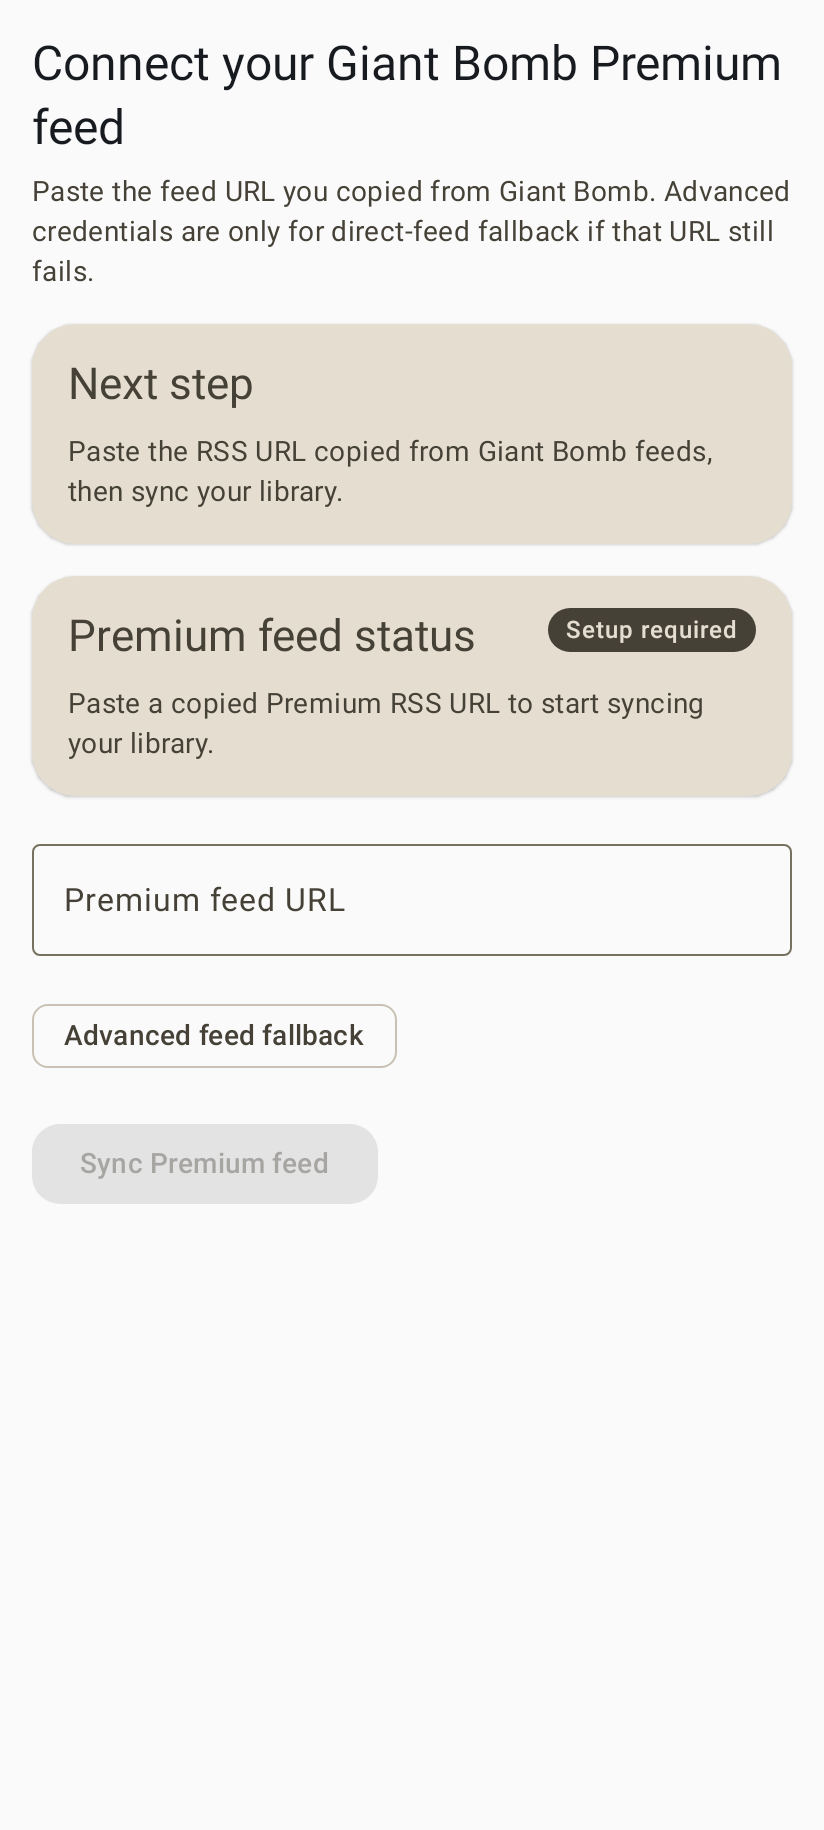
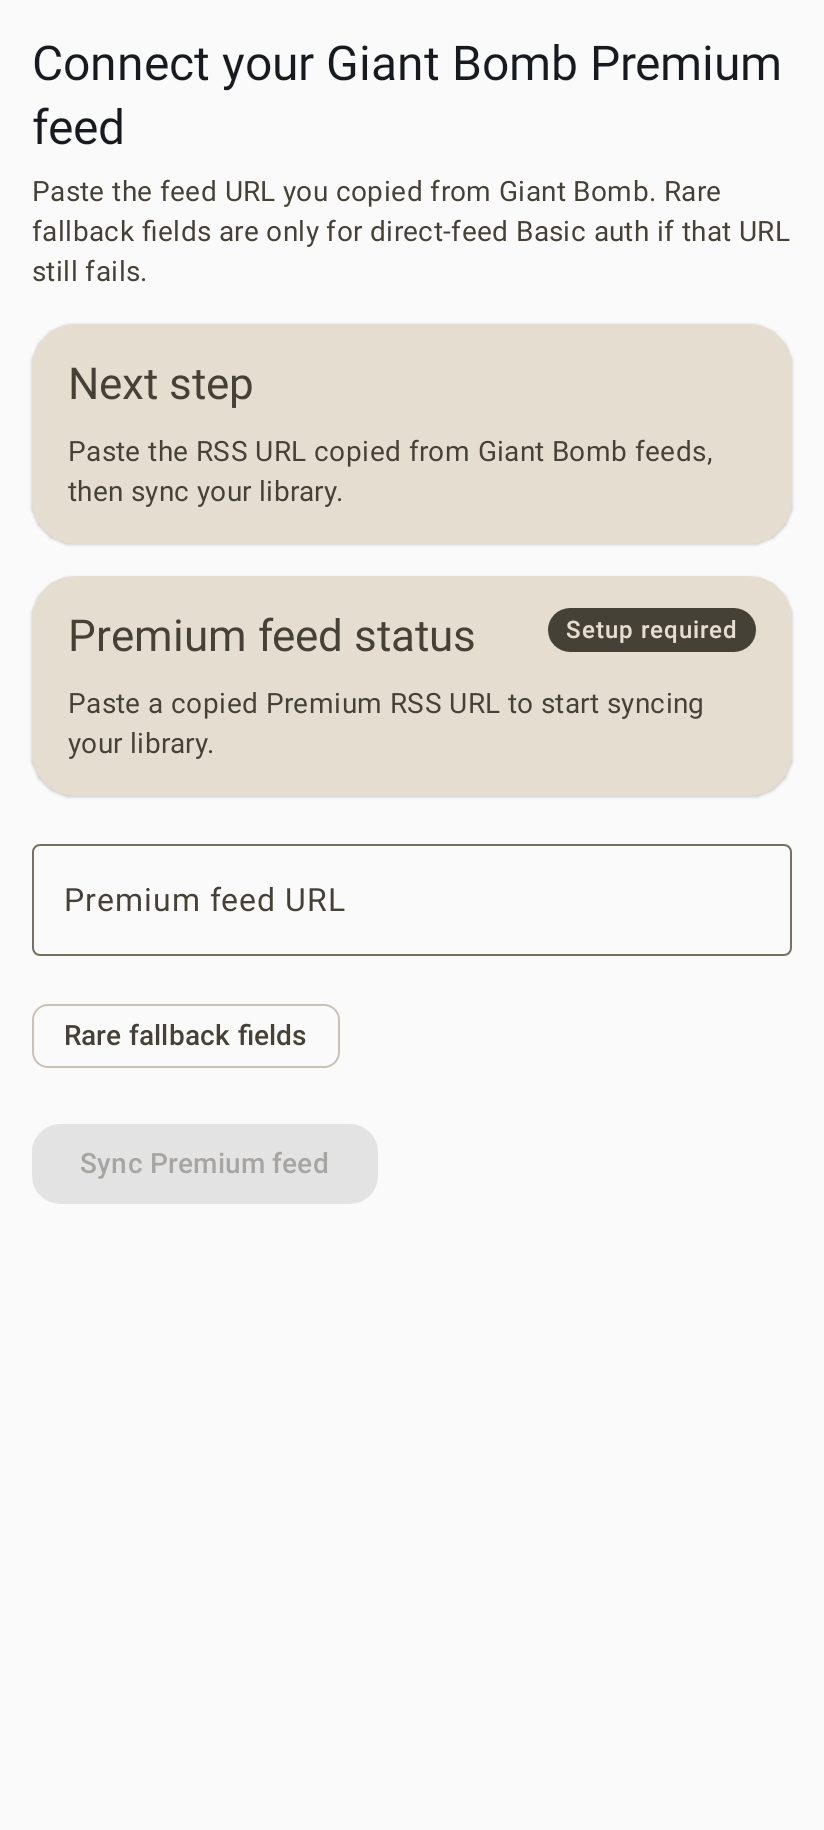
Demote fallback auth copy

diff --git a/feature/auth/src/main/java/com/looktube/feature/auth/AuthRoute.kt b/feature/auth/src/main/java/com/looktube/feature/auth/AuthRoute.kt
@@ -98,9 +98,9 @@ fun AuthRoute(
             append("\n\n")
             append(
                 if (feedConfiguration.rememberPassword) {
-                    "The optional password is saved securely on this device."
+                    "The optional fallback password is saved securely on this device."
                 } else {
-                    "The optional password is stored only for this app session."
+                    "The optional fallback password is stored only for this app session."
                 },
             )
         }
@@ -112,7 +112,7 @@ fun AuthRoute(
             feedConfiguration.rememberPassword ||
             feedConfiguration.password.isNotBlank()
         ) {
-            append("\n\nForget saved credentials removes the saved username and any remembered password but keeps the feed URL.")
+            append("\n\nForget saved fallback details removes the saved username and any remembered password but keeps the feed URL.")
         }
     }
     val canClearData = !isSigningIn && (
@@ -135,7 +135,7 @@ fun AuthRoute(
     ) {
         LookTubePageHeader(
             title = "Connect your Giant Bomb Premium feed",
-            subtitle = "Paste the feed URL you copied from Giant Bomb. Advanced credentials are only for direct-feed fallback if that URL still fails.",
+            subtitle = "Paste the feed URL you copied from Giant Bomb. Rare fallback fields are only for direct-feed Basic auth if that URL still fails.",
         )
 
         LookTubeCard(
@@ -167,9 +167,9 @@ fun AuthRoute(
             label = {
                 Text(
                     if (optionalCredentialsExpanded) {
-                        "Hide advanced feed fallback"
+                        "Hide rare fallback fields"
                     } else {
-                        "Advanced feed fallback"
+                        "Rare fallback fields"
                     },
                 )
             },
@@ -177,15 +177,15 @@ fun AuthRoute(
 
         if (optionalCredentialsExpanded) {
             LookTubeCard(
-                title = "Advanced direct-feed fallback",
-                body = "Most copied Giant Bomb feed URLs should work on their own. Only fill these fields if the feed itself still requires HTTP Basic auth. LookTube does not sign into the Giant Bomb website or automate a browser session.",
+                title = "Rare direct-feed fallback",
+                body = "Validated Giant Bomb feed and playback probes succeeded without these fields. Only fill them if a copied feed URL still fails and the feed itself requires HTTP Basic auth. LookTube does not sign into the Giant Bomb website or automate a browser session.",
             )
 
             OutlinedTextField(
                 value = feedConfiguration.username,
                 onValueChange = onUsernameChanged,
                 modifier = Modifier.fillMaxWidth(),
-                label = { Text("Premium username (optional)") },
+                label = { Text("Fallback username (optional)") },
                 singleLine = true,
             )
 
@@ -196,9 +196,9 @@ fun AuthRoute(
                 label = {
                     Text(
                         if (feedConfiguration.rememberPassword) {
-                            "Password (optional, remembered)"
+                            "Fallback password (optional, remembered)"
                         } else {
-                            "Password (optional)"
+                            "Fallback password (optional)"
                         },
                     )
                 },
@@ -223,9 +223,9 @@ fun AuthRoute(
                     onCheckedChange = null,
                 )
                 Column(verticalArrangement = Arrangement.spacedBy(2.dp)) {
-                    Text("Remember password on this device")
+                    Text("Remember fallback password on this device")
                     Text(
-                        text = "Uses encrypted-at-rest app storage and stays limited to the direct-feed fallback path.",
+                        text = "Uses encrypted-at-rest app storage and stays limited to the rare direct-feed fallback path.",
                         style = MaterialTheme.typography.bodySmall,
                         color = MaterialTheme.colorScheme.onSurfaceVariant,
                     )
@@ -270,7 +270,7 @@ fun AuthRoute(
                 onClick = onForgetSavedCredentialsRequested,
                 shape = RoundedCornerShape(14.dp),
             ) {
-                Text("Forget saved credentials")
+                Text("Forget saved fallback details")
             }
         }
     }

diff --git a/core/data/src/main/kotlin/com/looktube/data/ConfigurableLookTubeRepository.kt b/core/data/src/main/kotlin/com/looktube/data/ConfigurableLookTubeRepository.kt
@@ -32,7 +32,7 @@ class ConfigurableLookTubeRepository(
         AccountSession(
             isSignedIn = false,
             accountLabel = null,
-            notes = "Paste a Giant Bomb Premium RSS URL to replace the seeded library. Username and password are advanced fallback fields only if the feed itself still requires basic auth.",
+            notes = "Paste a Giant Bomb Premium RSS URL to replace the seeded library. Username and password are rare fallback fields only if the feed itself still requires basic auth.",
         ),
     )
     private val feedConfigurationState = MutableStateFlow(
@@ -142,7 +142,7 @@ class ConfigurableLookTubeRepository(
         publishStatus(
             LibrarySyncState(
                 phase = SyncPhase.Idle,
-                message = "Cleared synced library data. Saved feed settings are still available for the next sync.",
+                message = "Cleared synced library data. Saved feed settings and any optional fallback details are still available for the next sync.",
                 lastSuccessfulSyncSummary = null,
             ),
         )
@@ -163,7 +163,7 @@ class ConfigurableLookTubeRepository(
         publishStatus(
             LibrarySyncState(
                 phase = SyncPhase.Idle,
-                message = "Forgot saved credentials. Feed URL was preserved so you can enter fresh credentials later.",
+                message = "Forgot saved fallback details. Feed URL was preserved so you can enter fresh fallback details later if a feed still needs them.",
                 lastSuccessfulSyncSummary = null,
             ),
         )
@@ -253,15 +253,15 @@ class ConfigurableLookTubeRepository(
         val configuration = feedConfigurationState.value
         accountSessionState.value = AccountSession(
             isSignedIn = hasSuccessfulFeedSync,
-            accountLabel = configuration.username.takeIf(String::isNotBlank) ?: configuration.feedUrl.takeIf(String::isNotBlank)?.let { "Copied Premium feed" },
+            accountLabel = configuration.feedUrl.takeIf(String::isNotBlank)?.let { "Copied Premium feed" },
             notes = buildString {
                 append(status.message)
                 if (configuration.password.isNotBlank()) {
                     append(
                         if (configuration.rememberPassword) {
-                            " Password is saved securely on this device."
+                            " Optional fallback password is saved securely on this device."
                         } else {
-                            " Password is stored for the current app session only."
+                            " Optional fallback password is stored for the current app session only."
                         },
                     )
                 }
@@ -278,17 +278,17 @@ class ConfigurableLookTubeRepository(
             )
             configuration.username.isBlank() && configuration.password.isBlank() -> LibrarySyncState(
                 phase = SyncPhase.Idle,
-                message = "Saved feed URL detected. Sign in to sync it. Leave advanced fallback credentials empty unless this feed still requires basic auth.",
+                message = "Saved feed URL detected. Sign in to sync it. Leave rare fallback fields empty unless this feed still requires basic auth.",
                 lastSuccessfulSyncSummary = syncState.value.lastSuccessfulSyncSummary,
             )
             configuration.rememberPassword && configuration.password.isNotBlank() -> LibrarySyncState(
                 phase = SyncPhase.Idle,
-                message = "Saved feed URL and remembered fallback credentials loaded. Sign in to sync the Premium feed.",
+                message = "Saved feed URL and remembered fallback details loaded. Sign in to sync the Premium feed.",
                 lastSuccessfulSyncSummary = syncState.value.lastSuccessfulSyncSummary,
             )
             configuration.password.isBlank() -> LibrarySyncState(
                 phase = SyncPhase.Idle,
-                message = "Saved feed URL and fallback username loaded. If this feed still requires basic auth, enter the password for this app session or remember it securely on this device; otherwise sign in now.",
+                message = "Saved feed URL and fallback username loaded. If this feed still requires basic auth, enter the fallback password for this app session or remember it securely on this device; otherwise sign in now.",
                 lastSuccessfulSyncSummary = syncState.value.lastSuccessfulSyncSummary,
             )
             else -> LibrarySyncState(

diff --git a/core/data/src/main/kotlin/com/looktube/data/InMemoryLookTubeRepository.kt b/core/data/src/main/kotlin/com/looktube/data/InMemoryLookTubeRepository.kt
@@ -15,7 +15,7 @@ class InMemoryLookTubeRepository : LookTubeRepository {
         AccountSession(
             isSignedIn = false,
             accountLabel = null,
-            notes = "Auth spike pending validation against Giant Bomb Premium flows.",
+            notes = "Feed-first playback spike pending validation against additional Giant Bomb Premium variants.",
         ),
     )
     private val feedConfigurationState = MutableStateFlow(
@@ -71,7 +71,7 @@ class InMemoryLookTubeRepository : LookTubeRepository {
     }
     override suspend fun signInToPremiumFeed() {
         accountSessionState.value = accountSessionState.value.copy(
-            notes = "Spike feed-first Premium access first and use credentials only as direct-feed fallback.",
+            notes = "Spike feed-first Premium access first and use fallback details only when a copied feed URL still fails.",
         )
         refreshLibrary()
     }
@@ -99,11 +99,11 @@ class InMemoryLookTubeRepository : LookTubeRepository {
         accountSessionState.value = accountSessionState.value.copy(
             isSignedIn = false,
             accountLabel = null,
-            notes = "Forgot saved credentials in the in-memory spike repository.",
+            notes = "Forgot saved fallback details in the in-memory spike repository.",
         )
         syncState.value = LibrarySyncState(
             phase = SyncPhase.Idle,
-            message = "Forgot saved credentials. Seeded content is active.",
+            message = "Forgot saved fallback details. Seeded content is active.",
         )
         videosState.value = ConfigurableLookTubeRepository.seededVideos
         selectedVideoIdState.value = null

diff --git a/app/src/test/java/com/looktube/app/AuthVisualTest.kt b/app/src/test/java/com/looktube/app/AuthVisualTest.kt
@@ -71,7 +71,7 @@ class AuthVisualTest {
                     paddingValues = PaddingValues(),
                     accountSession = AccountSession(
                         isSignedIn = true,
-                        accountLabel = "Premium library synced",
+                        accountLabel = "Copied Premium feed",
                         notes = "Using copied Giant Bomb Premium feed URL.",
                     ),
                     feedConfiguration = FeedConfiguration(
@@ -107,7 +107,7 @@ class AuthVisualTest {
                     paddingValues = PaddingValues(),
                     accountSession = AccountSession(
                         isSignedIn = false,
-                        accountLabel = "premium-user",
+                        accountLabel = "Copied Premium feed",
                         notes = "Saved feed settings are ready for the next sync.",
                     ),
                     feedConfiguration = FeedConfiguration(
@@ -118,7 +118,7 @@ class AuthVisualTest {
                     ),
                     syncState = LibrarySyncState(
                         phase = SyncPhase.Idle,
-                        message = "Saved feed URL, username, and remembered password loaded. Sign in to sync the Premium feed.",
+                        message = "Saved feed URL and remembered fallback details loaded. Sign in to sync the Premium feed.",
                     ),
                     onFeedUrlChanged = {},
                     onUsernameChanged = {},

diff --git a/core/data/src/test/kotlin/com/looktube/data/ConfigurableLookTubeRepositoryTest.kt b/core/data/src/test/kotlin/com/looktube/data/ConfigurableLookTubeRepositoryTest.kt
@@ -62,6 +62,7 @@ class ConfigurableLookTubeRepositoryTest {
         assertEquals(1, repository.videos.value.size)
         assertEquals("live-1", repository.videos.value.single().id)
         assertTrue(repository.accountSession.value.isSignedIn)
+        assertEquals("Copied Premium feed", repository.accountSession.value.accountLabel)
     }
 
     @Test
@@ -112,7 +113,7 @@ class ConfigurableLookTubeRepositoryTest {
         assertEquals("remembered-secret", repository.feedConfiguration.value.password)
         assertTrue(repository.feedConfiguration.value.rememberPassword)
         assertEquals("premium-quick-look-1", repository.videos.value.first().id)
-        assertTrue(repository.librarySyncState.value.message.contains("Saved feed settings"))
+        assertTrue(repository.librarySyncState.value.message.contains("optional fallback details"))
     }
 
     @Test

diff --git a/core/data/src/test/kotlin/com/looktube/data/InMemoryLookTubeRepositoryTest.kt b/core/data/src/test/kotlin/com/looktube/data/InMemoryLookTubeRepositoryTest.kt
@@ -23,7 +23,7 @@ class InMemoryLookTubeRepositoryTest {
 
         repository.signInToPremiumFeed()
         assertEquals(
-            "Spike feed-first Premium access first and use credentials only as direct-feed fallback.",
+            "Spike feed-first Premium access first and use fallback details only when a copied feed URL still fails.",
             repository.accountSession.value.notes,
         )
     }

diff --git a/docs/spec/product-spec.md b/docs/spec/product-spec.md
@@ -21,7 +21,7 @@ The current app already covers a substantial first-use slice for a Premium subsc
 - the app persists the last successful synced library and saved playback progress
 - Library combines grouped browsing, sort/filter controls, rich video cards, and jump navigation
 - Player uses a shared Media3 session/service model with fullscreen and resume support
-- the Auth surface now separates clearing synced cache from forgetting saved credentials while preserving the copied feed URL
+- the Auth surface now separates clearing synced cache from forgetting saved fallback details while preserving the copied feed URL
 - the product remains explicitly feed-first and avoids unsupported website-login automation
 - the main shell is covered by automated smoke validation and regular Ralph loop gates
 
@@ -30,12 +30,12 @@ Harden the path from copied feed sync to daily repeat use.
 
 ### Acceptance criteria
 - copied-feed sync remains the primary user-facing path unless a more robust Premium session flow proves necessary
-- credentials stay clearly demoted as advanced direct-feed fallback, not the main sign-in path
+- fallback username/password fields stay clearly demoted as rare direct-feed fallback, not the main sign-in path or session identity
 - playback and background/session behavior remain stable across more real Giant Bomb feed variants
 - browse ergonomics continue improving from device feedback without regressing the grouped-library model
 - screenshot-oriented visual regression coverage is added for the now-stable browse/player experience
 - saved feed identity and any opted-in remembered password remain protected at rest
-- users can clear synced cache separately from forgetting saved credentials
+- users can clear synced cache separately from forgetting saved fallback details
 - docs reflect the validated product shape instead of the earlier scaffold-only phases
 
 ## Ralph loop definition
@@ -48,6 +48,6 @@ Harden the path from copied feed sync to daily repeat use.
 7. run `verifyLocal` before merging the slice
 
 ## Open questions
-- Is the copied Premium feed URL alone enough for the first usable release, or do some feeds still require direct-feed credential fallback?
+- Do any additional real Premium feed variants still require direct-feed fallback fields, or is the validated copied-feed path sufficient for the first usable release?
 - Which additional Giant Bomb feed or page metadata should be folded into show-grouping heuristics?
 - What is the lightest-weight visual regression strategy that fits the current Android/Compose workflow?

diff --git a/docs/architecture/overview.md b/docs/architecture/overview.md
@@ -21,7 +21,7 @@ LookTube is built as a native Android app in Kotlin with Jetpack Compose. The re
 - `core:testing`
   - shared fixtures and coroutine-test rules
 - `feature:auth`
-  - feed configuration and fallback-credentials surface
+  - feed configuration and rare fallback-fields surface
 - `feature:library`
   - consolidated Premium library browse surface with grouped exploration, rich cards, and flyout jump navigation
 - `feature:player`
@@ -40,8 +40,8 @@ LookTube is built as a native Android app in Kotlin with Jetpack Compose. The re
 1. `app` creates a `SharedPreferencesFeedConfigurationStore` plus the configurable repository from the app container
 2. `LookTubeAppViewModel` bootstraps the repository
 3. the repository loads feed identity settings from an app-owned encrypted-at-rest store, restores any opted-in remembered password, keeps non-remembered password edits session-only, restores the last synced library snapshot, and exposes persisted playback progress for the feed-first path
-4. feature modules render and mutate repository state through the app shell, including a Premium feed access screen, a consolidated grouped library surface, and a shared Media3 player route
-5. an explicit sync action attempts a direct RSS fetch first and replaces the cached library on success, while still passing optional basic-auth credentials when present and allowing cached-library clearing independently from credential forgetting; the architecture intentionally stops short of website-login automation
+4. feature modules render and mutate repository state through the app shell, including a Premium feed access screen that foregrounds the copied feed URL and keeps fallback fields secondary, a consolidated grouped library surface, and a shared Media3 player route
+5. an explicit sync action attempts a direct RSS fetch first and replaces the cached library on success, while still passing optional basic-auth fallback details when present and allowing cached-library clearing independently from fallback-detail forgetting; the architecture intentionally stops short of website-login automation
 
 ## Why the current spike still keeps a seeded fallback
 The project still needs a short external integration spike to confirm the best Giant Bomb Premium auth strategy and exact production feed targets. The configurable repository now supports a real Premium feed sync path, but it keeps seeded fallback content so the app remains usable and testable before live credentials are available.

diff --git a/WARP.md b/WARP.md
@@ -4,7 +4,7 @@
 - Run `.\gradlew.bat verifyLocal -PskipManagedDevice=true` before committing unless you also validated the managed-device lane.
 - Never commit live Giant Bomb credentials, cookies, or raw authenticated feed responses.
 - Copied feed URLs, saved usernames, and optional remembered passwords now persist through an encrypted-at-rest app store; copied feed URLs can still be used without a password when they already carry access keys.
-- `Clear synced data` now removes cached library data and playback progress while preserving feed settings; `Forget saved credentials` clears the saved username and remembered password while keeping the feed URL.
+- `Clear synced data` now removes cached library data and playback progress while preserving feed settings; `Forget saved fallback details` clears the saved username and remembered password while keeping the feed URL.
 - Keep LookTube feed-first. Do not add browser-login, cookie-harvesting, or website automation flows unless Giant Bomb exposes an official supported path.
 - Record integration findings in `docs/integration/giantbomb.md` before changing implementation assumptions.
 - Record architecture tradeoffs as ADRs under `docs/decisions/`.

diff --git a/docs/learned-notes/2026-03.md b/docs/learned-notes/2026-03.md
@@ -33,3 +33,4 @@
 - A real Giant Bomb `premium-videos` 1080p feed validated the current feed-first assumption: on March 16, 2026, `feed-url-only` and `direct-feed-basic-auth-fallback` both returned HTTP 200 with identical structural counts, so fallback credentials did not add observable feed-access value for that probe.
 - The app's playback path is even simpler than the feed sync path: once a feed item is selected, the current code hands `playbackUrl` directly to Media3 without cookies or extra auth headers, so the right validation seam is the extracted media URL itself.
 - A live sample of the first three items from the same `premium-videos` 1080p feed returned direct `206 video/mp4` responses from `cdn.jwplayer.com` with no query string, which is strong evidence that the validated feed path already exposes directly playable media targets instead of requiring browser-session replay.
+- Once both live feed probes and live playback probes succeeded without fallback details, the next useful simplification was product-language cleanup: the feed URL should stay the visible account identity, while username/password fields remain an explicitly rare escape hatch instead of a normal sign-in path.

diff --git a/docs/integration/giantbomb.md b/docs/integration/giantbomb.md
@@ -26,7 +26,7 @@ The first implementation path should stay feed-first, not legacy-API-first. Unti
 - a manual probe script in `scripts/Invoke-GiantBombFeedProbe.ps1`
 - a manual playback probe script in `scripts/Invoke-GiantBombPlaybackProbe.ps1`
 - a configurable repository that persists feed URL, username, and optional remembered password locally, with feed identity protected at rest inside the app
-- a user-facing split between clearing synced library data and forgetting saved credentials while preserving the copied feed URL
+- a user-facing split between clearing synced library data and forgetting saved fallback details while preserving the copied feed URL
 - a live Premium RSS fetch path that can replace seeded library content when configured successfully
 - seeded fallback library data that keeps the app usable and testable before live credentials are available
 - a Media3-backed player screen that can attempt playback when a synced item exposes a stream URL
